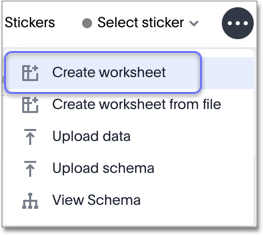
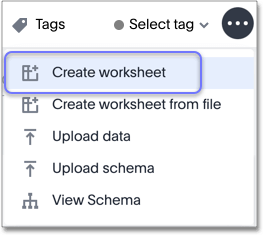
SCAL 70361: updated images in Create and use worksheets

Changed region(s): [[0.3042, 0.0596, 0.7909, 0.1489], [0.0, 0.0596, 0.2433, 0.1489]]

diff --git a/_admin/worksheets/about-worksheets.md b/_admin/worksheets/about-worksheets.md
@@ -1,7 +1,7 @@
 ---
 title: [Create and use worksheets]
 
-last_updated: 3/20/2020
+last_updated: 12/9/2020
 summary: "Worksheets are flat tables created by joining columns from a set of one or more tables or imported datasets. "
 sidebar: mydoc_sidebar
 permalink: /:collection/:path.html
@@ -53,7 +53,7 @@ To create a new worksheet:
 
 1. Click **Data**, on the top navigation bar.
 
-2. Click the ellipsis icon ![more options menu icon]({{ site.baseurl }}/images/icon-ellipses.png){: .inline}, and select **Create worksheet**.
+2. Click the **More** menu icon ![more options menu icon]({{ site.baseurl }}/images/icon-ellipses.png){: .inline}, and select **Create worksheet**.
 
     ![Create a worksheet]({{ site.baseurl }}/images/worksheet-create.png "Create a worksheet")
 
@@ -96,7 +96,7 @@ To add sources to your worksheet, follow these steps. The worksheet creation UI 
 
 10.  (Optional) [Create worksheet filters](create-ws-filter.html#).
 
-11. Click the ellipsis icon ![more options menu icon]({{ site.baseurl }}/images/icon-ellipses.png){: .inline}, and select **Save**.
+11. Click the **More** menu icon ![more options menu icon]({{ site.baseurl }}/images/icon-ellipses.png){: .inline}, and select **Save**.
 
 12. In the Save Worksheet window, enter a name and description for your worksheet and click **SAVE**.
 
@@ -106,9 +106,7 @@ To add sources to your worksheet, follow these steps. The worksheet creation UI 
 
      ![Add a prefix to column names]({{ site.baseurl }}/images/worksheet-create-add-prefix.png "Add a prefix to column names")
 
-15. Click the ellipsis icon ![more options menu icon]({{ site.baseurl }}/images/icon-ellipses.png){: .inline}, and select **Save**.
-
-    ![Save your worksheet]({{ site.baseurl }}/images/worksheet-create-save.png "Save your worksheet")
+15. Click the **More** menu icon ![more options menu icon]({{ site.baseurl }}/images/icon-ellipses.png){: .inline}, and select **Save**.
 
 16.  [Share your worksheet]({{ site.baseurl }}/admin/data-security/share-worksheets.html#), if you want other people to be able to use it.
 
